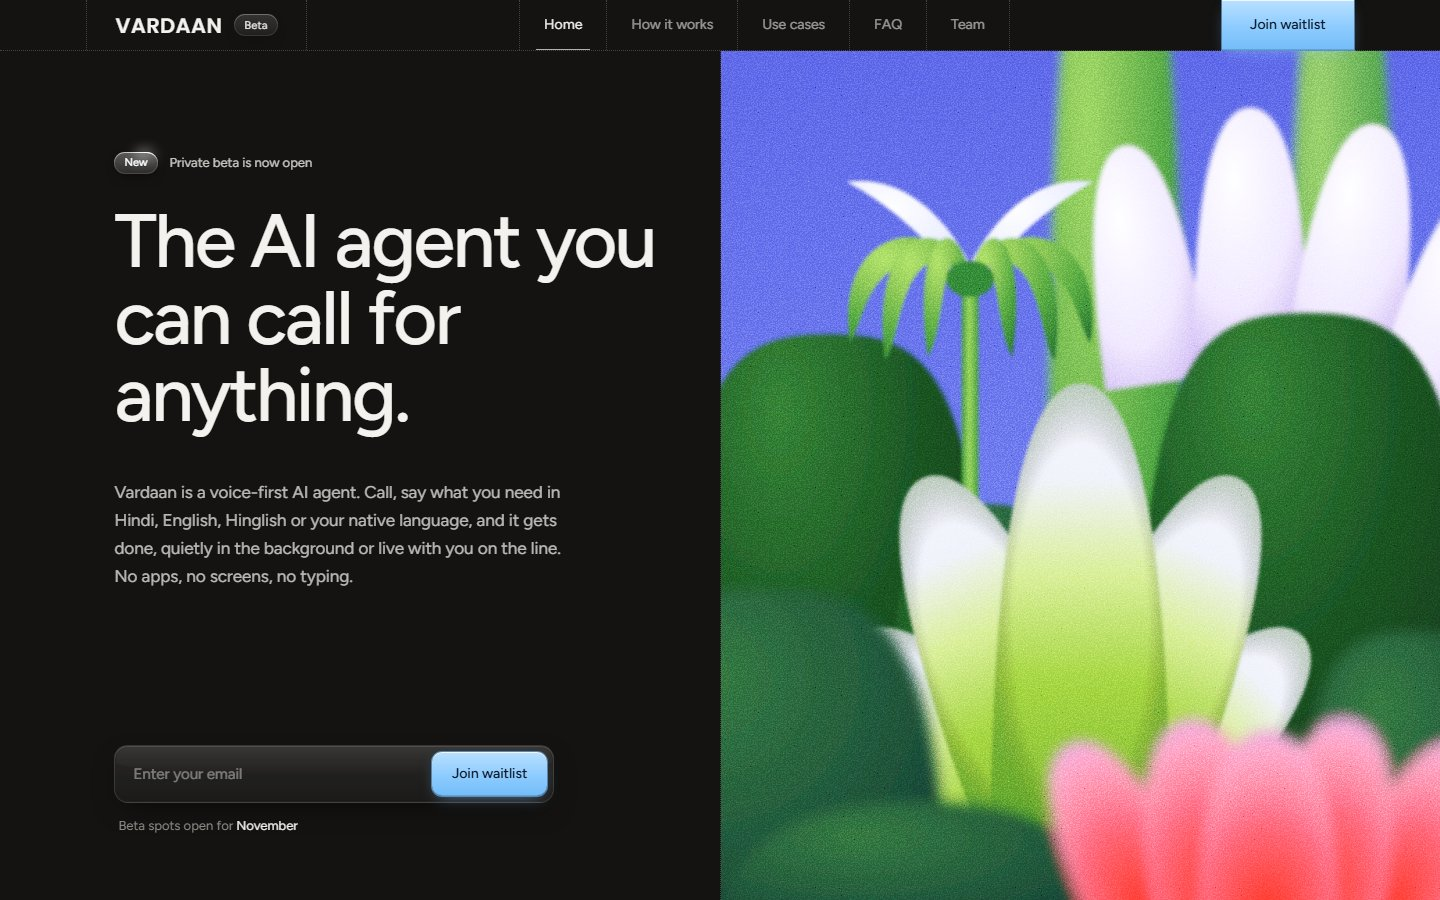
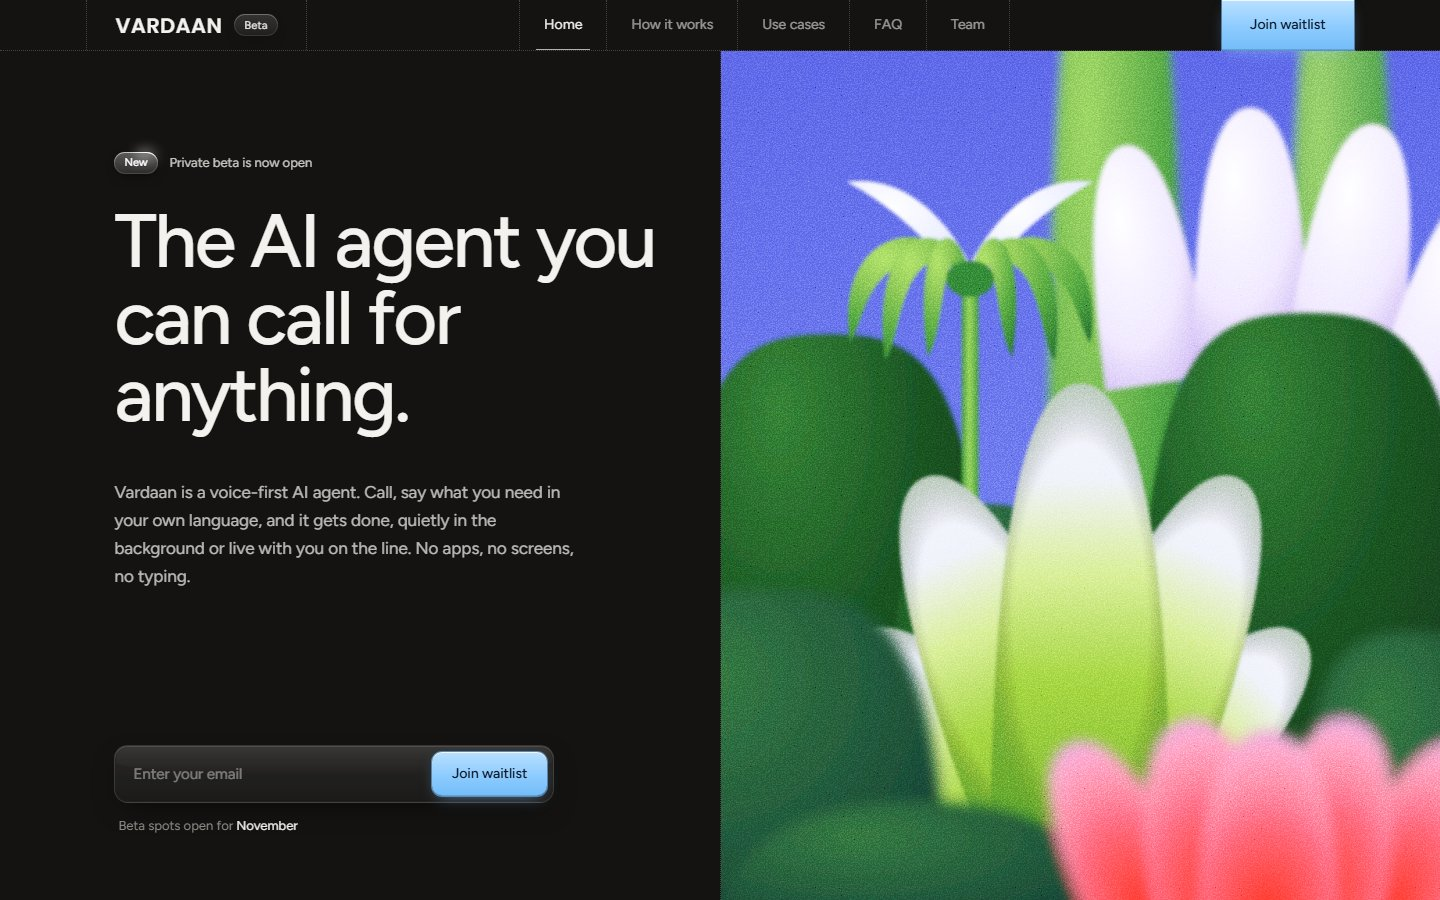
Say 'your own language' instead of listing languages

Changed region(s): [[0.0625, 0.56, 0.4062, 0.6533]]

diff --git a/app/how-it-works/page.tsx b/app/how-it-works/page.tsx
@@ -4,14 +4,14 @@ import SectionPage, { CardGrid } from "@/components/SectionPage";
 export const metadata: Metadata = {
   title: "How it works",
   description:
-    "Call Vardaan, describe what you need in Hindi, English, Hinglish or your native language, and it plans the steps, confirms the details and gets it done.",
+    "Call Vardaan, describe what you need in your own language, and it plans the steps, confirms the details and gets it done.",
   alternates: { canonical: "/how-it-works" },
 };
 
 const STEPS = [
   {
     title: "Call and say what you need",
-    body: "Dial in from any phone and explain the task in your own words, in Hindi, English, Hinglish or your native language. No app, no screen, no typing.",
+    body: "Dial in from any phone and explain the task in your own words and your own language. No app, no screen, no typing.",
   },
   {
     title: "Vardaan plans and confirms",

diff --git a/app/page.tsx b/app/page.tsx
@@ -46,7 +46,7 @@ export default function Home() {
                 className="reveal mt-4 max-w-[460px] text-[14px] leading-[21px] text-ink/75 sm:text-[15px] sm:leading-[22px] lg:mt-[clamp(20px,5vh,56px)] lg:text-[17px] lg:leading-[28px]"
                 style={step(2)}
               >
-                Vardaan is a voice-first AI agent. Call, say what you need in Hindi, English, Hinglish or your native language, and it gets
+                Vardaan is a voice-first AI agent. Call, say what you need in your own language, and it gets
                 done, quietly in the background or live with you on the line. No apps, no screens, no typing.
               </p>
             </div>

diff --git a/lib/site.ts b/lib/site.ts
@@ -6,6 +6,6 @@ export const site = {
   name: "Vardaan",
   title: "Vardaan — The AI agent you can call for anything",
   description:
-    "Vardaan is a voice-first AI agent. Call, say what you need in Hindi, English, Hinglish or your native language, and it gets done, in the background or live on the call. Join the beta waitlist.",
+    "Vardaan is a voice-first AI agent. Call, say what you need in your own language, and it gets done, in the background or live on the call. Join the beta waitlist.",
   url: (process.env.NEXT_PUBLIC_SITE_URL ?? (vercelUrl ? `https://${vercelUrl}` : "http://localhost:3000")).replace(/\/$/, ""),
 };

diff --git a/app/faq/page.tsx b/app/faq/page.tsx
@@ -14,7 +14,7 @@ const FAQS = [
   },
   {
     q: "Which languages does it understand?",
-    a: "Hindi, English, Hinglish and other native Indian languages, including the way people naturally mix them in conversation.",
+    a: "Your own language. Speak the way you naturally do, including mixing languages mid-sentence.",
   },
   {
     q: "Do I need a smartphone or an app?",

diff --git a/README.md b/README.md
@@ -2,7 +2,7 @@
 
 **The AI agent you can call for anything.**
 
-Vardaan is a voice-first AI agent. You call it, say what you need in Hindi, English, Hinglish or your own native language, and it gets done, quietly in the background or live with you on the line. No apps, no screens, no typing.
+Vardaan is a voice-first AI agent. You call it, say what you need in your own language, and it gets done, quietly in the background or live with you on the line. No apps, no screens, no typing.
 
 This repository contains the Vardaan website: the beta landing page, the waitlist and the product pages.
 
